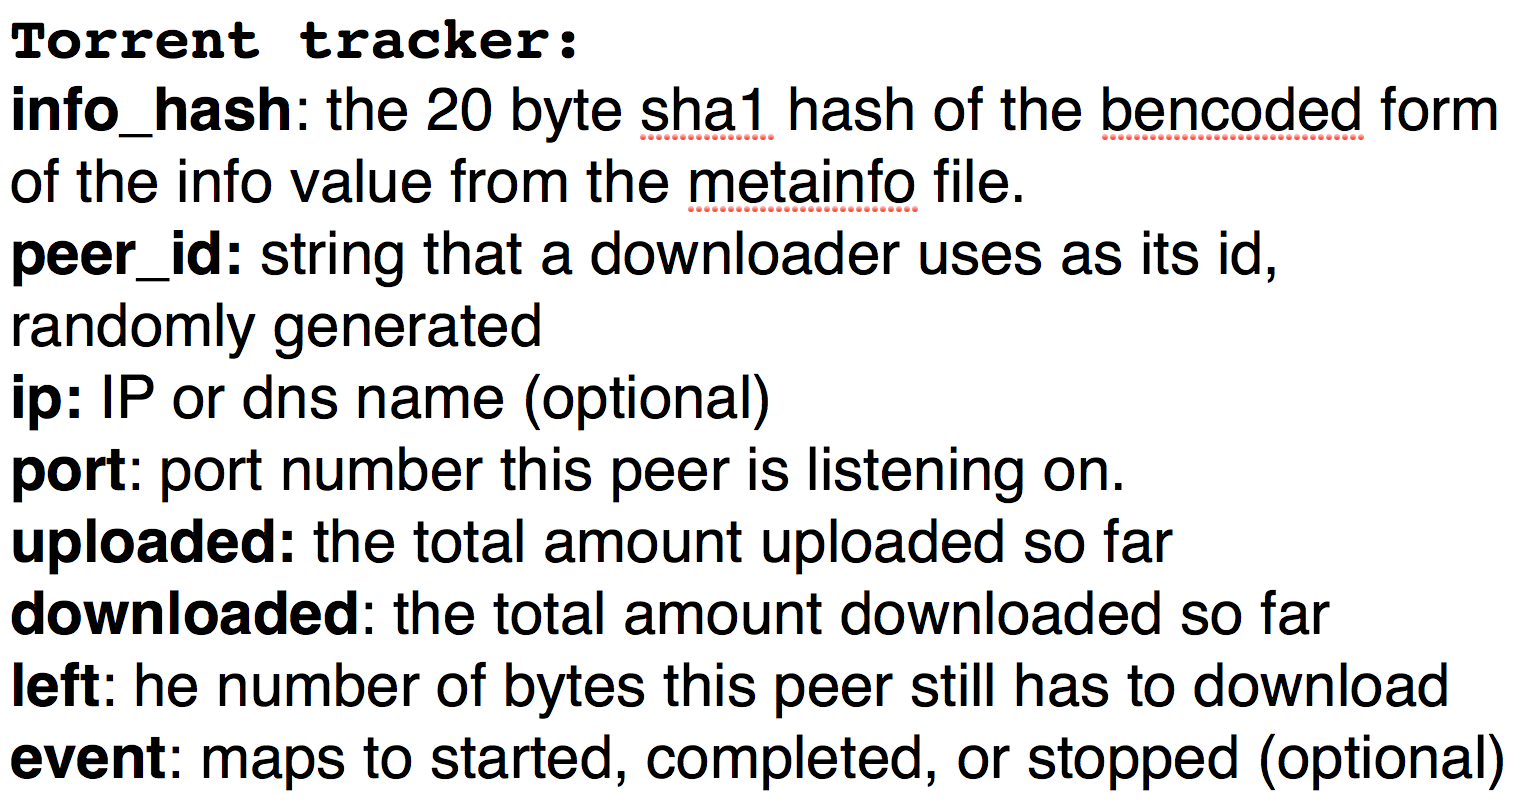
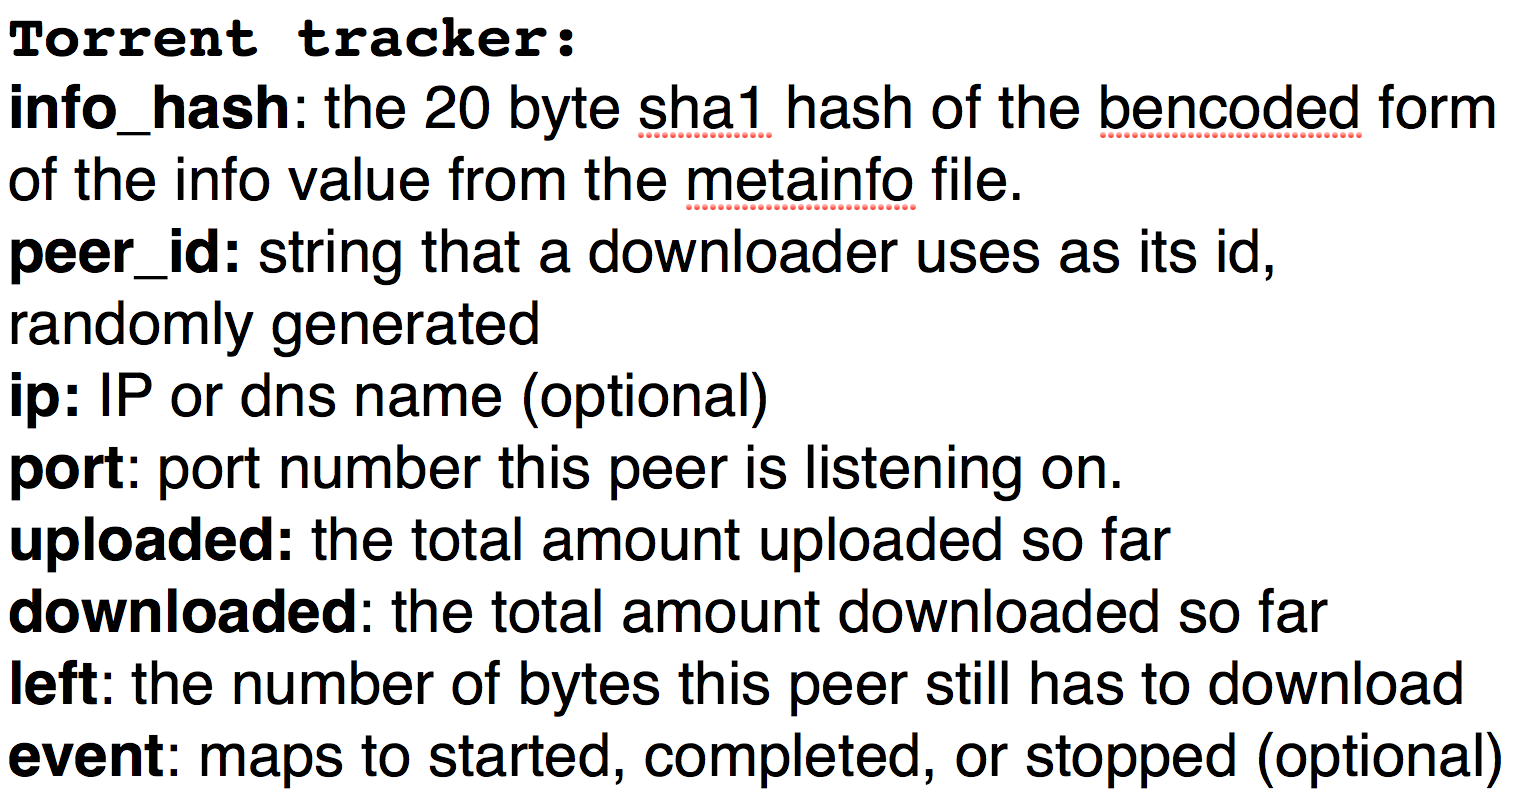
shorter version

Changed region(s): [[0.0, 0.031, 0.983, 0.9926]]

diff --git a/index.html b/index.html
@@ -48,14 +48,14 @@
 				</section>
 
 				<section>
-					<h2>Torrents in archives</h2>
+					<h2>Torrents <strong>in</strong> archives</h2>
 					<aside class="notes">
 					I’m ready stop talking about how torrents can be archives and let’s talk about how we can use torrents in archives, or as archives. I'm gonna introduce some technical concepts about this technology. Knowledge of technology is power. So let’s talk about how torrents work. Let’s talk about the benefits of this technology.
 					</aside>
 				</section>
 
 				<section>
-					<h2>Torrents as archives</h2>
+					<h2>Torrents <strong>as</strong> archives</h2>
 					<aside class="notes">
 					I’m not here to talk politics or academics. Reciting introductory-level copyright laws is not just boring, it’s detrimental to moving the conversation forward. Copyright isn’t a factor here.
 					</aside>
@@ -134,22 +134,15 @@
 					<aside class="notes">
 					Tracker GET requests have the following keys:
 
-info_hash
-The 20 byte sha1 hash of the bencoded form of the info value from the metainfo file. Note that this is a substring of the metainfo file. The info-hash must be the hash of the encoded form as found in the .torrent file, regardless of it being invalid. This value will almost certainly have to be escaped.
-peer_id
-A string of length 20 which this downloader uses as its id. Each downloader generates its own id at random at the start of a new download. This value will also almost certainly have to be escaped.
-ip
-An optional parameter giving the IP (or dns name) which this peer is at. Generally used for the origin if it's on the same machine as the tracker.
-port
-The port number this peer is listening on. Common behavior is for a downloader to try to listen on port 6881 and if that port is taken try 6882, then 6883, etc. and give up after 6889.
-uploaded
-The total amount uploaded so far, encoded in base ten ascii.
-downloaded
-The total amount downloaded so far, encoded in base ten ascii.
-left
-The number of bytes this peer still has to download, encoded in base ten ascii. Note that this can't be computed from downloaded and the file length since it might be a resume, and there's a chance that some of the downloaded data failed an integrity check and had to be re-downloaded.
-event
-This is an optional key which maps to started, completed, or stopped (or empty, which is the same as not being present). If not present, this is one of the announcements done at regular intervals. An announcement using started is sent when a download first begins, and one using completed is sent when the download is complete. No completed is sent if the file was complete when started. Downloaders send an announcement using stopped when they cease downloading.
+Torrent tracker:
+info_hash: the 20 byte sha1 hash of the bencoded form of the info value from the metainfo file.
+peer_id: string that a downloader uses as its id, randomly generated
+ip: IP or dns name (optional)
+port: port number this peer is listening on.
+uploaded: the total amount uploaded so far
+downloaded: the total amount downloaded so far
+left: the number of bytes this peer still has to download
+event: maps to started, completed, or stopped (optional)
 					</aside>
 				</section>
 
@@ -182,7 +175,7 @@ This is an optional key which maps to started, completed, or stopped (or empty, 
 				<section>
 					<h2>Two things</h2>
 					<aside class="notes">
-					Connections know two things about themselves and ask two things of other peers.
+					These connections know two things about themselves and they ask two things of other peers.
 					</aside>
 				</section>
 
@@ -205,9 +198,7 @@ This is an optional key which maps to started, completed, or stopped (or empty, 
 				<section>
 					<img src="img/travis.gif">
 					<aside class="notes">
-					Are you busy, are you interested. That can only mean one thing. OK. If it’s all good, downloading will proceed. Remember that this is also happening at such a granular level of the file — every little chunk of information is doing this.
-
-					So a match is found and data can start to be transferred. Please forget my earlier dating analogy completely at this point.
+					Are you busy, are you interested. That can only mean one thing. OK. If it’s all good, downloading will proceed. Remember that this is also happening at such a granular level of the file — every little chunk of information is doing this. So a match is found and data can start to be transferred.
 					</aside>
 				</section>
 
